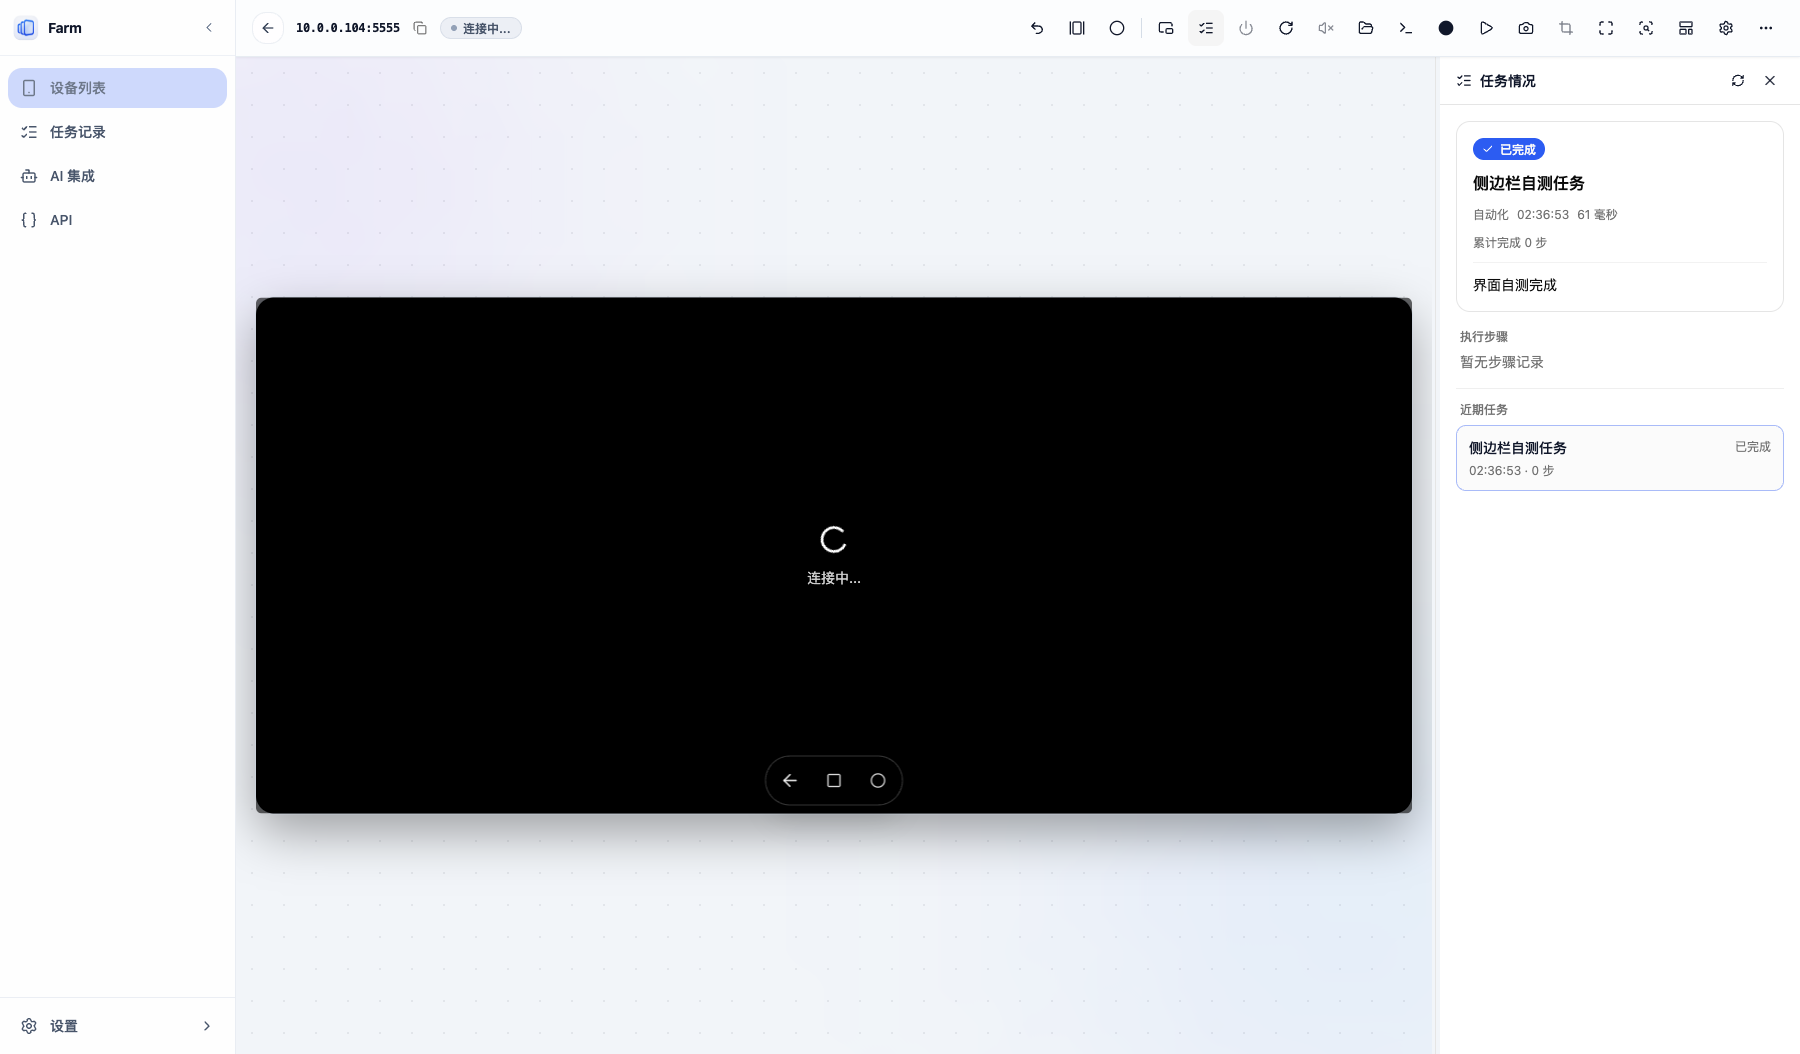
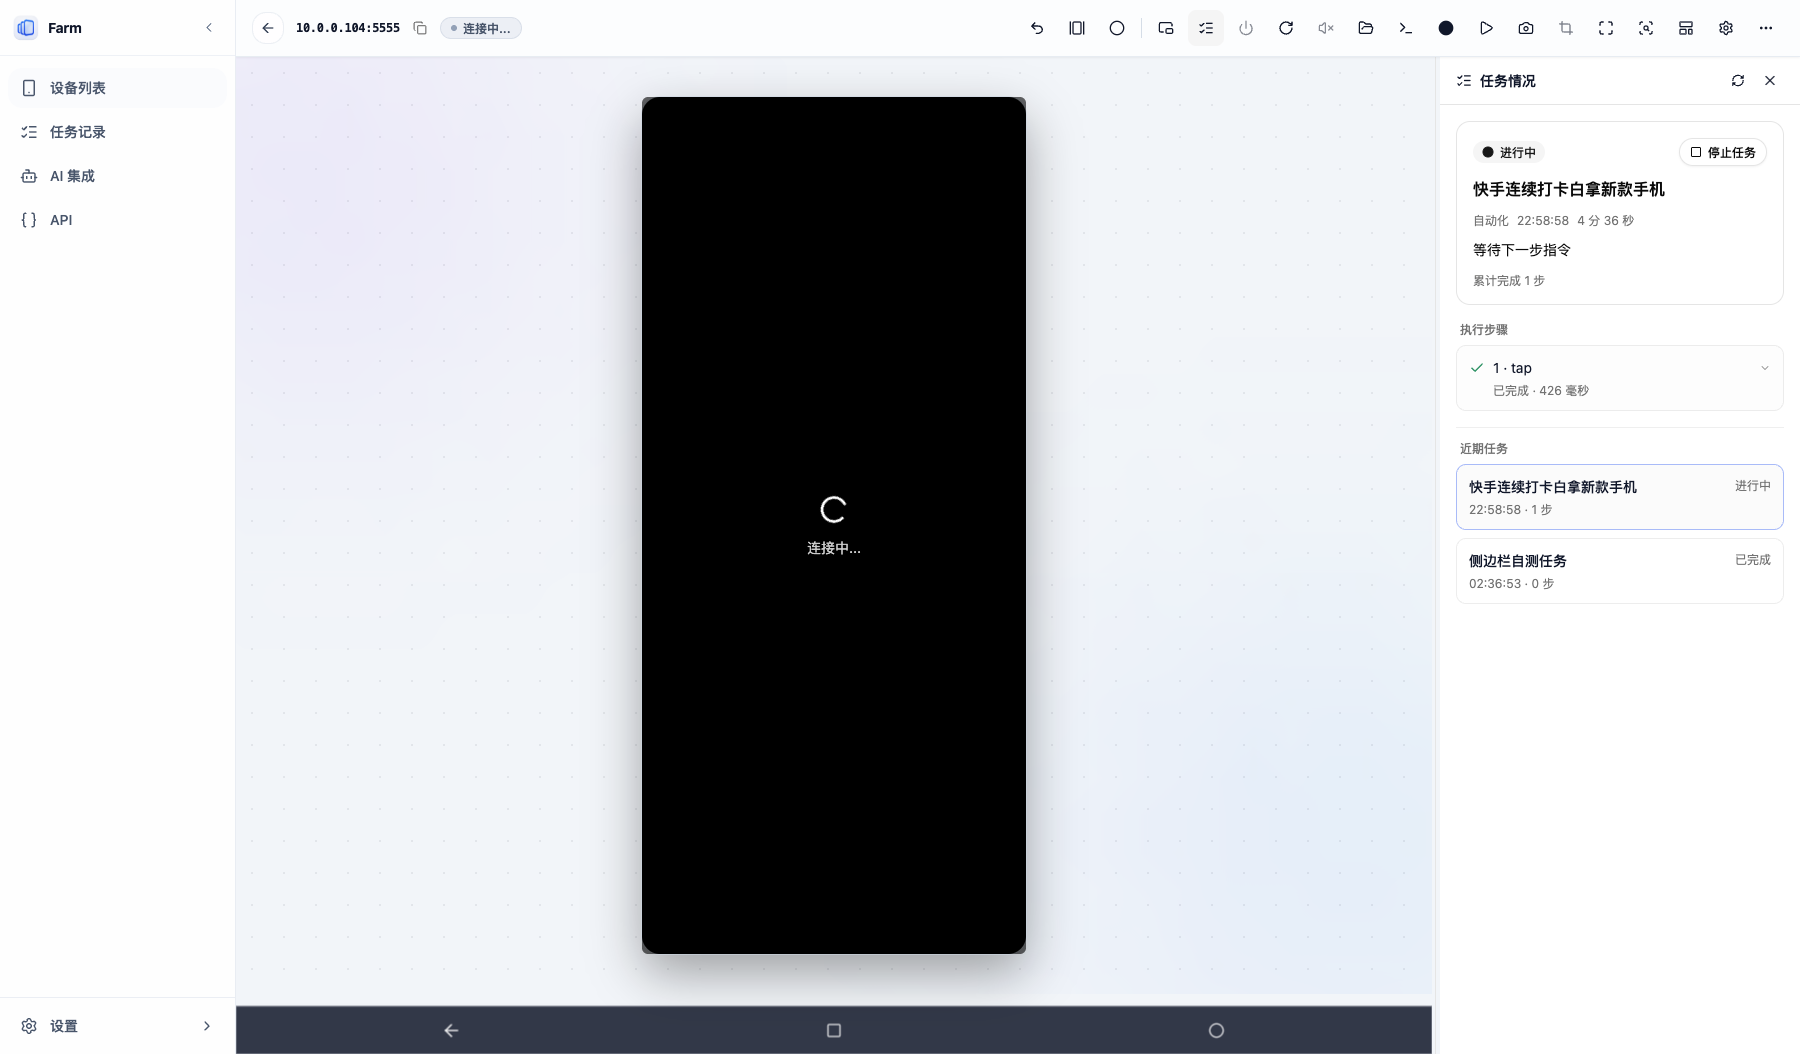
fix(投屏@v2026.11.21-1)：调整虚拟导航键布局与开关

diff --git a/frontend/src/components/player/DevicePlayer.vue b/frontend/src/components/player/DevicePlayer.vue
@@ -8,7 +8,6 @@ import {
   Ellipsis,
   ExternalLink,
   FolderOpen,
-  Hand,
   Home,
   LayoutTemplate,
   ListChecks,
@@ -108,11 +107,7 @@ const windowEffects = usePlayerWindows(serial)
 const playerSettings = usePlayerSettings()
 const { open: openFloatingPlayer } = useFloatingPlayers()
 const nativePlayerWindow = isTauri() && getCurrentWindow().label.startsWith('player-')
-const virtualNavVisible = ref(!props.embedded)
-
-function toggleVirtualNav() {
-  virtualNavVisible.value = !virtualNavVisible.value
-}
+const virtualNavVisible = playerSettings.virtualNavVisible
 
 async function handleCloseSmallWindow() {
   if (isTauri()) {
@@ -909,30 +904,6 @@ defineExpose({ handleEscape })
             aria-hidden="true"
           />
           <TouchVisualizer ref="touchVisualizerRef" :visible="touchVisible" :width="p.videoSize.value.w" :height="p.videoSize.value.h" />
-          <button
-            v-if="embedded"
-            type="button"
-            data-virtual-nav-toggle
-            class="absolute right-2 top-1/2 z-30 grid size-9 -translate-y-1/2 place-items-center rounded-full border border-white/20 bg-black/45 text-white/80 shadow-lg backdrop-blur-md transition hover:bg-black/65 hover:text-white"
-            :aria-label="virtualNavVisible ? '隐藏虚拟按键' : '显示虚拟按键'"
-            :title="virtualNavVisible ? '隐藏虚拟按键' : '显示虚拟按键'"
-            @click.stop="toggleVirtualNav"
-          >
-            <Hand class="h-4 w-4" />
-          </button>
-          <div v-if="virtualNavVisible" data-virtual-nav class="pointer-events-none absolute inset-x-0 bottom-2 z-30 flex justify-center">
-            <div class="pointer-events-auto flex items-center gap-1 rounded-full border border-white/20 bg-black/55 p-1 shadow-xl backdrop-blur-md">
-              <button type="button" class="grid size-10 place-items-center rounded-full text-white/85 transition hover:bg-white/15 hover:text-white" aria-label="返回" title="返回" @click.stop="p.pressBack()">
-                <ArrowLeft class="h-5 w-5" />
-              </button>
-              <button type="button" class="grid size-10 place-items-center rounded-full text-white/85 transition hover:bg-white/15 hover:text-white" aria-label="切换任务" title="切换任务" @click.stop="p.pressRecents()">
-                <Square class="h-4 w-4" />
-              </button>
-              <button type="button" class="grid size-10 place-items-center rounded-full text-white/85 transition hover:bg-white/15 hover:text-white" aria-label="主页" title="主页" @click.stop="p.pressHome()">
-                <Circle class="h-4 w-4" />
-              </button>
-            </div>
-          </div>
           <CaptureLayer
             v-if="captureOpen" :serial="serial" :get-canvas="() => p.canvasRef.value"
             :actions-target="`#${captureHostId}`"
@@ -958,7 +929,6 @@ defineExpose({ handleEscape })
             </div>
           </div>
         </div>
-
         <!-- 灭屏提示 -->
         <div v-if="p.screenOff.value" class="absolute inset-x-0 top-0 flex justify-center p-3">
           <Badge variant="secondary" class="gap-1.5 px-3 py-1.5">
@@ -970,7 +940,18 @@ defineExpose({ handleEscape })
         <div v-if="replay.replaying.value" class="absolute inset-x-0 top-0 flex justify-center p-3">
           <Badge class="gap-1.5 px-3 py-1.5">正在重放{{ replay.loop.value ? '（循环）' : '' }}</Badge>
         </div>
-      </main></div></template>
+      </main>
+      <div v-if="virtualNavVisible" data-virtual-nav class="flex h-12 w-full shrink-0 items-center justify-around border-t border-white/15 bg-slate-900/85 px-6 shadow-lg backdrop-blur-md">
+        <button type="button" class="grid size-10 place-items-center rounded-lg text-white/85 transition hover:bg-white/15 hover:text-white" aria-label="返回" title="返回" @click.stop="p.pressBack()">
+          <ArrowLeft class="h-5 w-5" />
+        </button>
+        <button type="button" class="grid size-10 place-items-center rounded-lg text-white/85 transition hover:bg-white/15 hover:text-white" aria-label="切换任务" title="切换任务" @click.stop="p.pressRecents()">
+          <Square class="h-4 w-4" />
+        </button>
+        <button type="button" class="grid size-10 place-items-center rounded-lg text-white/85 transition hover:bg-white/15 hover:text-white" aria-label="主页" title="主页" @click.stop="p.pressHome()">
+          <Circle class="h-4 w-4" />
+        </button>
+      </div></div></template>
       <template #side>
       <div v-if="captureOpen" :id="captureHostId" class="h-full overflow-auto bg-card" />
       <div v-show="!captureOpen" class="flex h-full min-h-0 flex-col">
@@ -1002,11 +983,13 @@ defineExpose({ handleEscape })
         v-else-if="settingsOpen"
         :touch-visible="touchVisible" :boxes-visible="tm.showBoxes.value"
         :auto-unlock-on-wake="p.autoUnlockOnWake.value"
+        :virtual-nav-visible="playerSettings.virtualNavVisible.value"
         :clipboard-sync="p.clipboardSync.value"
         :window-busy="windowEffects.busy.value"
         @update:touch-visible="setTouchVisible"
         @update:boxes-visible="tm.setShow"
         @update:auto-unlock-on-wake="p.autoUnlockOnWake.value = $event"
+        @update:virtual-nav-visible="playerSettings.virtualNavVisible.value = $event"
         @update:clipboard-sync="p.clipboardSync.value = $event"
         @close="settingsOpen = false"
       />

diff --git a/frontend/src/views/PlayerView.vue b/frontend/src/views/PlayerView.vue
@@ -6,8 +6,10 @@ import { getCurrentWindow } from '@tauri-apps/api/window'
 import DevicePlayer from '@/components/player/DevicePlayer.vue'
 import FloatingPlayer from '@/components/player/FloatingPlayer.vue'
 import { useFloatingPlayers } from '@/composables/useFloatingPlayers'
+import { usePlayerSettings } from '@/composables/usePlayerSettings'
 
 const { floatingSerials, close: closeFloatingWindow } = useFloatingPlayers()
+const playerSettings = usePlayerSettings()
 
 const route = useRoute()
 const serial = computed(() => typeof route.query.serial === 'string' ? route.query.serial : '')
@@ -29,7 +31,13 @@ function queueFit() {
 async function fitNative() {
   if (disposed || fitting || !layout || !embedded.value || !isTauri() || !getCurrentWindow().label.startsWith('player-')) return
   fitting = true
-  try { await invoke('fit_player_window', { videoWidth: layout.width, videoHeight: layout.height }) }
+  try {
+    await invoke('fit_player_window', {
+      videoWidth: layout.width,
+      videoHeight: layout.height,
+      extraHeight: playerSettings.virtualNavVisible.value ? 56 : 0,
+    })
+  }
   catch (cause) { console.warn('[Desktop] 适配视频小窗失败', cause) }
   finally { fitting = false }
 }
@@ -39,6 +47,7 @@ function handleLayout(next: {width: number, height: number}) {
   queueFit()
 }
 onMounted(() => window.addEventListener('resize', queueFit))
+watch(() => playerSettings.virtualNavVisible.value, queueFit)
 onUnmounted(() => { disposed = true; clearTimeout(fitTimer); window.removeEventListener('resize', queueFit) })
 async function handleClose() {
   if (isTauri()) {

diff --git a/frontend/src/components/player/PlayerSettingsPanel.vue b/frontend/src/components/player/PlayerSettingsPanel.vue
@@ -7,6 +7,7 @@ defineProps<{
   touchVisible: boolean
   boxesVisible: boolean
   autoUnlockOnWake: boolean
+  virtualNavVisible: boolean
   clipboardSync: boolean
   windowBusy?: boolean
 }>()
@@ -14,6 +15,7 @@ const emit = defineEmits<{
   'update:touchVisible': [value: boolean]
   'update:boxesVisible': [value: boolean]
   'update:autoUnlockOnWake': [value: boolean]
+  'update:virtualNavVisible': [value: boolean]
   'update:clipboardSync': [value: boolean]
   close: []
 }>()
@@ -45,6 +47,10 @@ const emit = defineEmits<{
       <div class="flex items-center justify-between gap-4">
         <div><p class="text-sm font-medium">唤醒后尝试解锁</p><p class="text-xs text-muted-foreground">有密码时仍需手动验证</p></div>
         <Switch :model-value="autoUnlockOnWake" aria-label="唤醒后尝试解锁" @update:model-value="emit('update:autoUnlockOnWake', !!$event)" />
+      </div>
+      <div class="flex items-center justify-between gap-4">
+        <div><p class="text-sm font-medium">显示虚拟导航键</p><p class="text-xs text-muted-foreground">在投屏画面下方显示返回、切换任务和主页</p></div>
+        <Switch :model-value="virtualNavVisible" aria-label="显示虚拟导航键" @update:model-value="emit('update:virtualNavVisible', !!$event)" />
       </div>
     </div>
   </aside>

diff --git a/frontend/src/components/system/PlayerSettingsContent.vue b/frontend/src/components/system/PlayerSettingsContent.vue
@@ -113,6 +113,13 @@ const s = usePlayerSettings()
         </div>
         <Switch :model-value="s.autoUnlockOnWake.value" aria-label="唤醒后尝试解锁开关" @update:model-value="v => s.autoUnlockOnWake.value = !!v" />
       </div>
+      <div class="flex items-center justify-between gap-4 border-t pt-3">
+        <div>
+          <p class="text-sm font-medium">显示虚拟导航键</p>
+          <p class="text-xs text-muted-foreground">在投屏画面下方显示返回、切换任务和主页</p>
+        </div>
+        <Switch :model-value="s.virtualNavVisible.value" aria-label="显示虚拟导航键开关" @update:model-value="v => s.virtualNavVisible.value = !!v" />
+      </div>
     </div>
   </div>
 </template>

diff --git a/frontend/src/composables/usePlayerSettings.ts b/frontend/src/composables/usePlayerSettings.ts
@@ -74,6 +74,7 @@ export const usePlayerSettings = createSharedComposable(() => {
   const clipboardSync = useStorage<boolean>('clipboard-sync', true)
   const touchVisible = useStorage<boolean>('show-touch-overlay', true)
   const boxesVisible = useStorage<boolean>('show-template-boxes', true)
+  const virtualNavVisible = useStorage<boolean>('show-virtual-nav', false)
 
   return {
     openMode,
@@ -90,5 +91,6 @@ export const usePlayerSettings = createSharedComposable(() => {
     clipboardSync,
     touchVisible,
     boxesVisible,
+    virtualNavVisible,
   }
 })

diff --git a/desktop/src/links.rs b/desktop/src/links.rs
@@ -129,18 +129,19 @@ pub fn open_main_device_detail(app: AppHandle, serial: String) -> Result<(), Str
 pub const CLICK_SCRIPT: &str = include_str!("links.js");
 
 #[tauri::command]
-pub fn fit_player_window(window: tauri::WebviewWindow, video_width: f64, video_height: f64) -> Result<(), String> {
+pub fn fit_player_window(window: tauri::WebviewWindow, video_width: f64, video_height: f64, extra_height: Option<f64>) -> Result<(), String> {
     if !window.label().starts_with("player-") { return Err("仅设备小窗支持画面适配".into()); }
     if !video_width.is_finite() || !video_height.is_finite() || video_width < 1.0 || video_height < 1.0 { return Err("视频尺寸无效".into()); }
+    let extra_height = extra_height.unwrap_or(0.0).clamp(0.0, 200.0);
     let scale = window.scale_factor().map_err(|e| e.to_string())?;
     let current = window.inner_size().map_err(|e| e.to_string())?.to_logical::<f64>(scale);
     let ratio = video_width / video_height;
     let mut width = current.width;
     if let Some(monitor) = window.current_monitor().map_err(|e| e.to_string())? {
         let screen = monitor.size().to_logical::<f64>(monitor.scale_factor());
-        width = width.min(screen.width - 40.0).min((screen.height - 100.0) * ratio);
+        width = width.min(screen.width - 40.0).min((screen.height - 100.0 - extra_height) * ratio);
     }
-    let height = (width / ratio).round();
+    let height = (width / ratio).round() + extra_height;
     if (current.width - width).abs() >= 1.0 || (current.height - height).abs() >= 1.0 {
         window.set_size(tauri::LogicalSize::new(width, height)).map_err(|e| e.to_string())?;
         eprintln!("[Desktop] 小窗 {} 适配视频 {}x{} -> {:.0}x{:.0}", window.label(), video_width, video_height, width, height);

diff --git a/packages/python-sdk/src/farm/__init__.py b/packages/python-sdk/src/farm/__init__.py
@@ -8,7 +8,7 @@ from .errors import (ActionError, ActionTimeout, CommandError, ConnectionError, 
                      HTTPError, MatchTimeout, MissingDependency, ProtocolError, SDKError,
                      TemplateDisabled, UnsupportedTemplateMethod)
 
-__version__ = "2026.11.21"
+__version__ = "2026.11.21-1"
 __all__ = ["Client", "Device", "Matcher", "ActionResult", "CommandResult", "DeviceInfo", "Frame",
            "ImportResult", "Match", "PageInfo", "Template", "OCRBox", "OCRResult",
            "ActionError", "ActionTimeout",

diff --git a/packages/python-sdk/version.go b/packages/python-sdk/version.go
@@ -1,4 +1,4 @@
 // Package pythonsdk identifies and packages the SDK used by the application.
 package pythonsdk
 
-const Version = "2026.11.21"
+const Version = "2026.11.21-1"

diff --git a/docs/versions/v2026.11.21-feature/version.md b/docs/versions/v2026.11.21-feature/version.md
@@ -46,3 +46,4 @@
 - 2026-11-22 S8 完成：修复设备搜索过滤并缩为居中宽度；任务记录/API 改为静态路由消除切页等待；详情页按钮重排并增加主屏与小窗虚拟导航键；小窗顶栏仅留三个导航键；空闲熄屏改为默认开启的时间下拉；设置新增反馈页。
 - 2026-11-22 [v2026.11.21-beta.3](https://github.com/liuzhuogood/Farm/releases/tag/v2026.11.21-beta.3) 已发布，14 个资产齐全；Mac mini 下载发布版完成启动与路由检查，准备发布正式版。
 - 2026-11-22 [v2026.11.21](https://github.com/liuzhuogood/Farm/releases/tag/v2026.11.21) 正式版已发布并设为最新版本，14 个资产齐全，Docker 发布成功；Mac mini 下载正式版完成版本与路由检查。
+- 2026-11-22 后续虚拟键布局与设置开关修正进入补丁版 [v2026.11.21-1-fix](../v2026.11.21-1-fix/version.md)。

diff --git a/docs/versions/v2026.11.21-1-fix/version.md b/docs/versions/v2026.11.21-1-fix/version.md
@@ -1,0 +1,14 @@
+# v2026.11.21-1：虚拟导航键布局修正
+
+## 修复
+
+- 虚拟导航键从投屏画面覆盖层移到画面下方，占满投屏区域宽度，不再遮挡画面。
+- 取消画面内悬浮球，改为设置中的“显示虚拟导航键”开关，默认关闭。
+- 原生设备小窗启用虚拟键时自动增加窗口高度，避免挤压画面。
+- 紧凑工具栏仍固定显示返回、切换任务、主页三个按钮。
+
+## 验证
+
+- `pnpm --dir frontend build`
+- `cargo test --locked --manifest-path desktop/Cargo.toml`
+- 浏览器实测画面底部与虚拟键顶部不重叠；主窗口虚拟键宽度等于投屏区域宽度，内嵌小窗宽度等于窗口宽度。

diff --git a/docs/versions/v2026.11.21-1-fix/tasks.md b/docs/versions/v2026.11.21-1-fix/tasks.md
@@ -1,0 +1,7 @@
+# v2026.11.21-1 任务清单
+
+- [x] 虚拟导航键移到画面下方并占满宽度。
+- [x] 改为设置开关，移除悬浮球。
+- [x] 小窗增加虚拟键高度适配。
+- [x] 修复紧凑模式隐藏返回和切换任务的问题。
+- [x] 前端与桌面测试通过。
